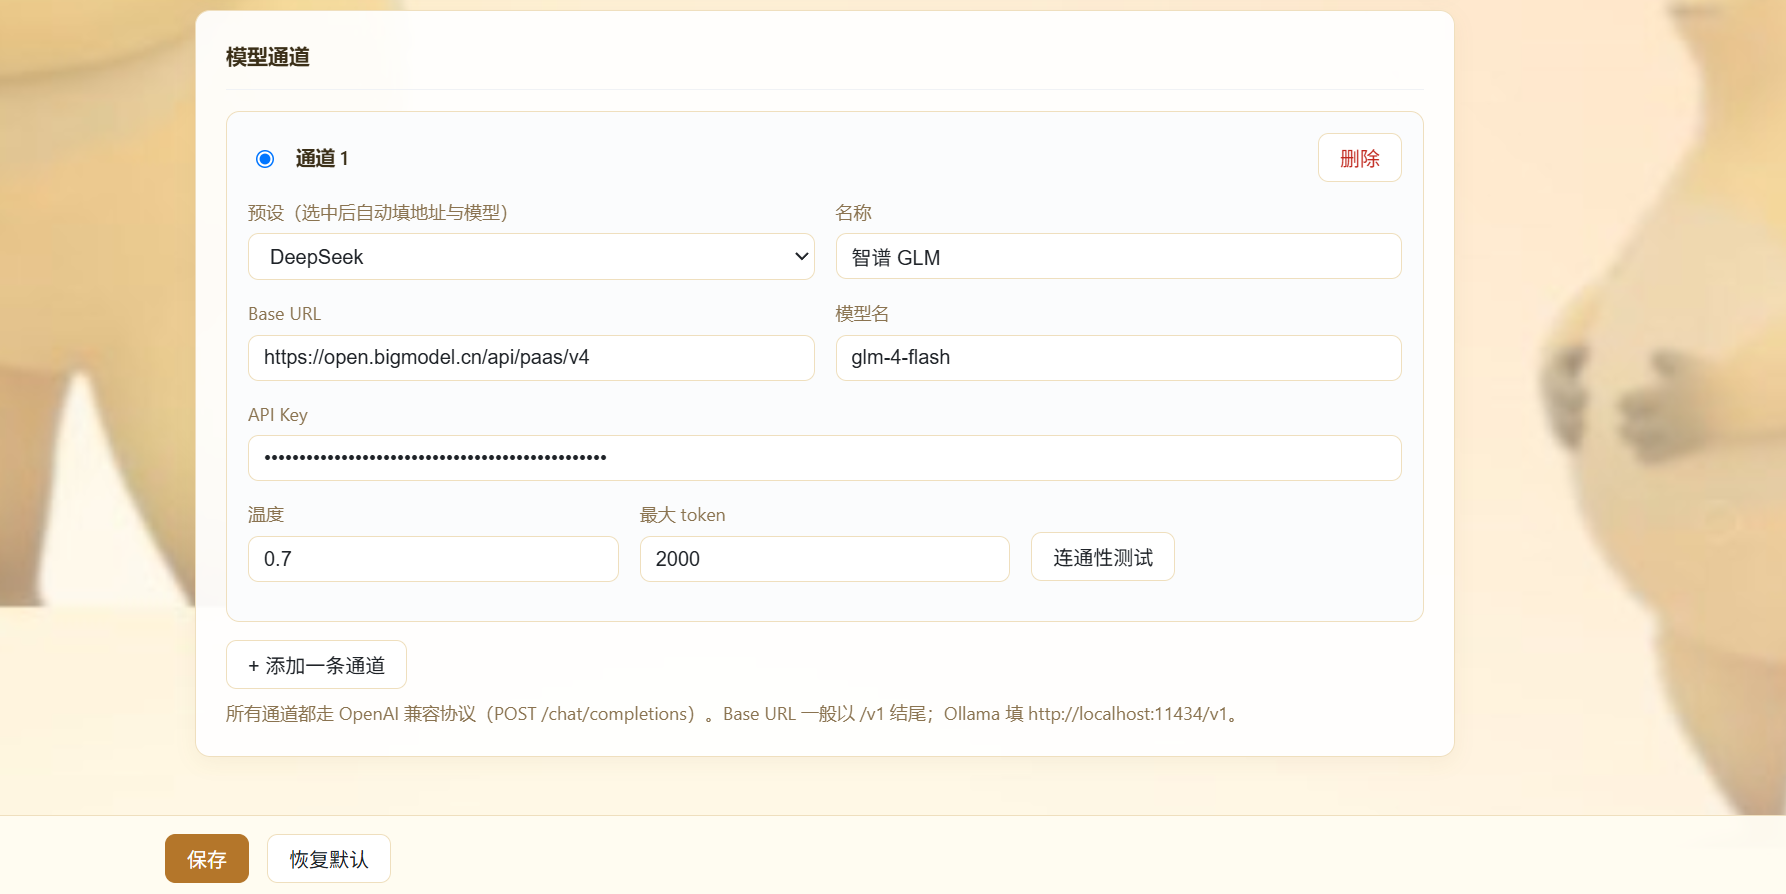
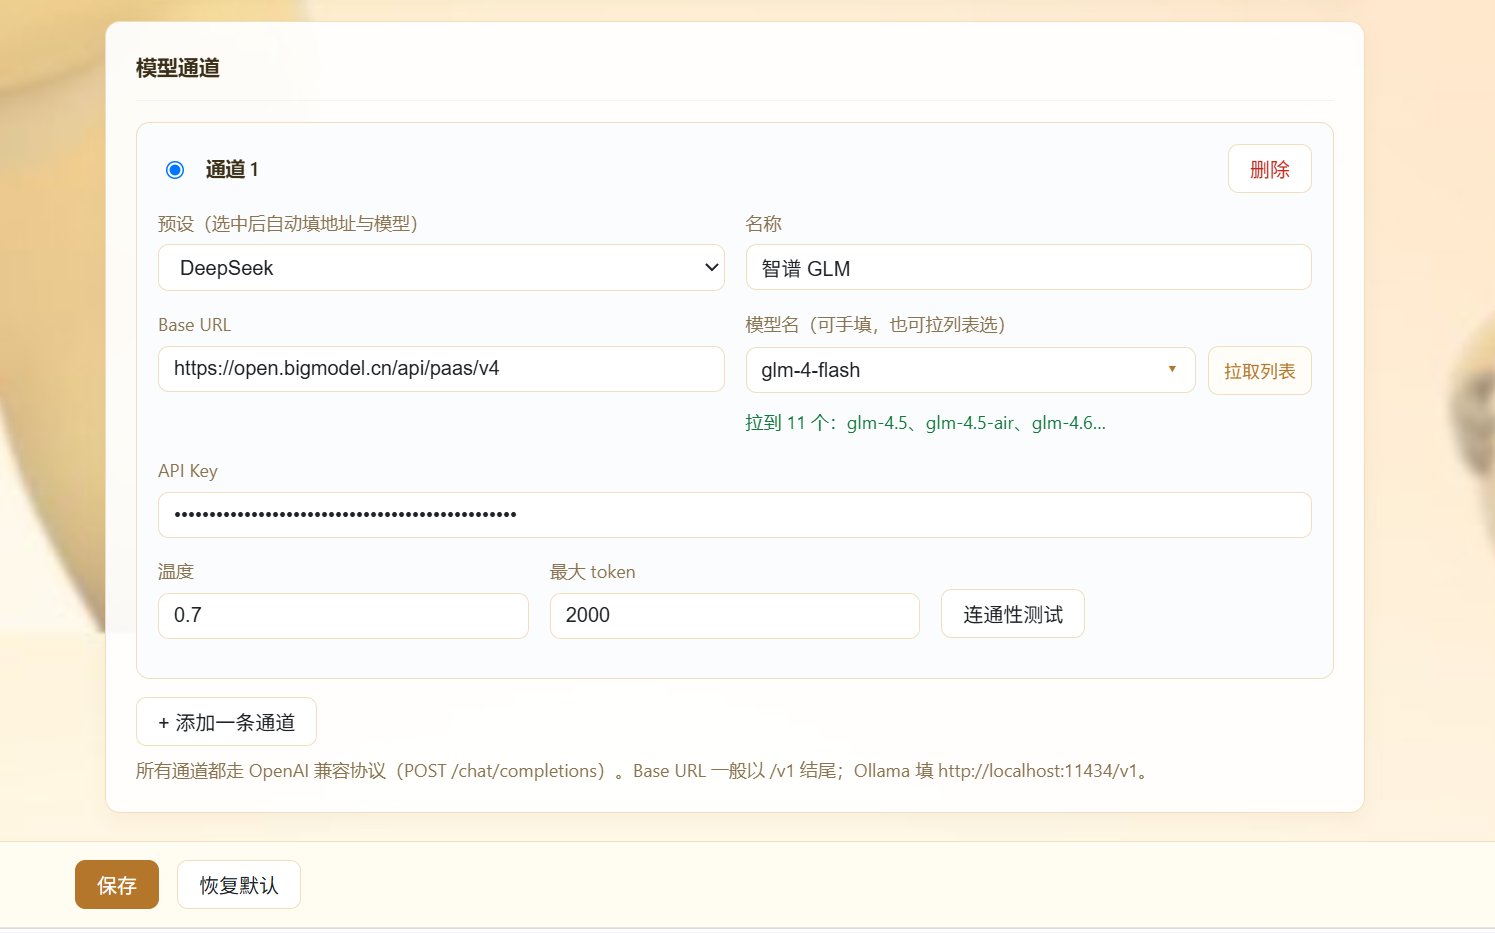
docs: 补入模型名拉取/候选/连通性测试说明，更新通道截图与更新日志

diff --git a/README.md b/README.md
@@ -75,7 +75,7 @@
 2. 右上角打开 **开发者模式**
 3. 点 **加载已解压的扩展程序**
 4. 选择文件夹：`C:\AIwork\xuexitong-llm-helper`
-5. 工具栏出现奶娃头像图标，卡片上显示「学习通-无敌智慧奶娃学习助手 0.4.4」
+5. 工具栏出现奶娃头像图标，卡片上显示「学习通-无敌智慧奶娃学习助手 0.4.13」
 
 <p align="center">
   <img src="docs/screenshots/01-devmode.png" width="420" alt="开发者模式开关">
@@ -313,9 +313,25 @@
 | 智谱 GLM | `https://open.bigmodel.cn/api/paas/v4` | `glm-4-flash` |
 | Ollama 本地 | `http://localhost:11434/v1` | `qwen2.5:7b` |
 
-**本地模型**：先 `ollama pull qwen2.5:7b`，API Key 随便填个非空字符串（Ollama 不校验），Base URL 用上表地址。好处是完全离线、零成本；坏处是 7B 级模型答选择题正确率大约七成，建议目标分设到 70–80 并用半自动档。
+**模型名怎么填（三种方式，随便用哪种）**
 
-**模型名不用背**：填好 Base URL 和 API Key 后，点模型名右边的「拉取列表」，扩展会请求 `GET {BaseURL}/models` 把这个账号能用的模型拉回来，点输入框就能下拉选。拉不到也不影响使用——模型名照旧手填（有些中转服务不开放 `/models`）。
+1. **点「拉取列表」**：扩展会请求 `GET {BaseURL}/models`，把这个账号能用的模型拉回来，点输入框右侧 ▾ 展开选择。列表第一行写着「接口返回 N 个」。
+2. **用候选型号**：接口没列出的常见型号（尤其是免费款）放在虚线下面那一节，标题是「接口里没列出、但常用的型号」。这些名字是按各家常见型号写的，**不保证还开通**，选完必须点「连通性测试」确认。
+3. **直接手填**：任何拉不到列表的情况都还能用，名字填对就行。
+
+> 为什么免费款常常不在列表里：`/models` 只返回服务商愿意公开的型号，免费额度款、灰度款、即将下线的型号经常不在其中。所以「列表里没有」不等于「不能用」，最终以「连通性测试」的结果为准。
+
+**连通性测试怎么读结果**：
+
+| 结果 | 含义 | 怎么办 |
+| --- | --- | --- |
+| `成功 · 320ms · glm-4.5-flash · 回复「可用」` | 地址、Key、模型名三者都对 | 直接保存 |
+| `HTTP 401 / 403` | Key 错了、过期，或没有这个模型的权限 | 换 Key，或换模型 |
+| `HTTP 404` | 地址前缀写错，或模型名不存在/已下线 | 核对 Base URL 与模型名 |
+| `HTTP 429` | 免费额度被限流 | 稍等，或把请求间隔调到 1500ms 以上 |
+
+
+**本地模型**：先 `ollama pull qwen2.5:7b`，API Key 随便填个非空字符串（Ollama 不校验），Base URL 用上表地址。好处是完全离线、零成本；坏处是 7B 级模型答选择题正确率大约七成，建议目标分设到 70–80 并用半自动档。
 
 **可以配多条通道**，用左侧单选钮切换当前用哪条。比如平时用便宜的 flash 模型，难题切到贵的；交叉校验则指定另一条通道。
 
@@ -323,7 +339,7 @@
   <img src="docs/screenshots/04-channel.png" width="860" alt="模型通道设置">
 </p>
 
-<p align="center"><sub>「模型通道」卡片：预设下拉会一键填好 Base URL 与模型名，其余只需填 API Key。</sub></p>
+<p align="center"><sub>「模型通道」卡片（0.4.10 起）：预设下拉一键填好 Base URL 与模型名；模型名右侧是「拉取列表」，模型名可以拉取选、也可以手填；右下「连通性测试」用来验证模型名与 Key。</sub></p>
 
 
 ---
@@ -333,10 +349,10 @@
 先确认地址是 `/mycourse/studentstudy`。题目和视频常在 iframe 里，扩展已配置 `all_frames`，但如果页面刚打开还没渲染完，等 2 秒。仍没有就 F5。
 
 **第一行日志没有版本号？**
-0.4.5 之前面板脚本试图自己读 `chrome.runtime.getManifest()`，但它跑在页面主世界，拿不到这个 API，所以版本号一直是空的。0.4.5 改成向后台要版本。看到 `助手已加载 v0.4.9 · …` 才算刷新成功。
+0.4.5 之前面板脚本试图自己读 `chrome.runtime.getManifest()`，但它跑在页面主世界，拿不到这个 API，所以版本号一直是空的。0.4.5 改成向后台要版本。看到 `助手已加载 v0.4.13 · …` 才算刷新成功。
 
 **怎么确认我改的代码生效了？**
-看第一行日志的版本号：`助手已加载 v0.4.9 · …`。没有版本号或版本号是旧的，说明 `chrome://extensions` 里没点刷新。
+看第一行日志的版本号：`助手已加载 v0.4.13 · …`。没有版本号或版本号是旧的，说明 `chrome://extensions` 里没点刷新。
 
 **两个面板叠在一起？**
 旧版本的遗留问题，0.3 之后框架里不再建面板。还出现就刷新扩展 + F5。
@@ -346,6 +362,9 @@
 
 **一直 401 / 429？**
 401 是 key 错了或过期；429 是限流，把「请求间隔」调到 1500 ms 以上。
+
+**「拉取列表」拉到了，但里面没有我要的免费模型？**
+`/models` 只列服务商愿意公开的型号，免费款和灰度款经常不在里面。点输入框右侧 ▾，滚到虚线下面那一节就是常见型号候选（如智谱的 `glm-4.5-flash`、`glm-4-flash`）。选中后点「连通性测试」：成功即能用，404 表示型号名不对或已下线，401/403 是 Key 没权限。
 
 **解析到 0 道题？**
 这章的 DOM 结构和已知的 `.TiMu` / `.questionLi` 不一样。点 `诊断` 把输出发出来，加适配。
@@ -439,6 +458,10 @@ robocopy C:\AIwork\_lh_backup_v043 C:\AIwork\xuexitong-llm-helper /MIR
 
 | 版本 | 主要内容 |
 | --- | --- |
+| 0.4.13 | 模型下拉增加各家常见型号候选（接口未列出也能选），候选需用连通性测试确认 |
+| 0.4.12 | 模型下拉无匹配时列出全部并显示「共 N 个」，不再出现空列表假象 |
+| 0.4.11 | 模型名下拉改为自绘菜单（Chrome 原生 datalist 点击不展开） |
+| 0.4.10 | 新增「拉取列表」：`GET {BaseURL}/models` 拉取可用模型，仍可手填 |
 | 0.4.7 | 彻底删掉「编程题语言」设置项，语言完全跟随页面下拉 |
 | 0.4.8 | 重写播放与任务点判定那组函数（遍历框架、等加载、踢播放、滚文档、清点任务点、串行驱动），行为不变，代码改为完全自写 |
 | 0.4.9 | 交叉校验下拉在只有一条通道时给出说明，不再只有「不启用」一个静默选项 |
